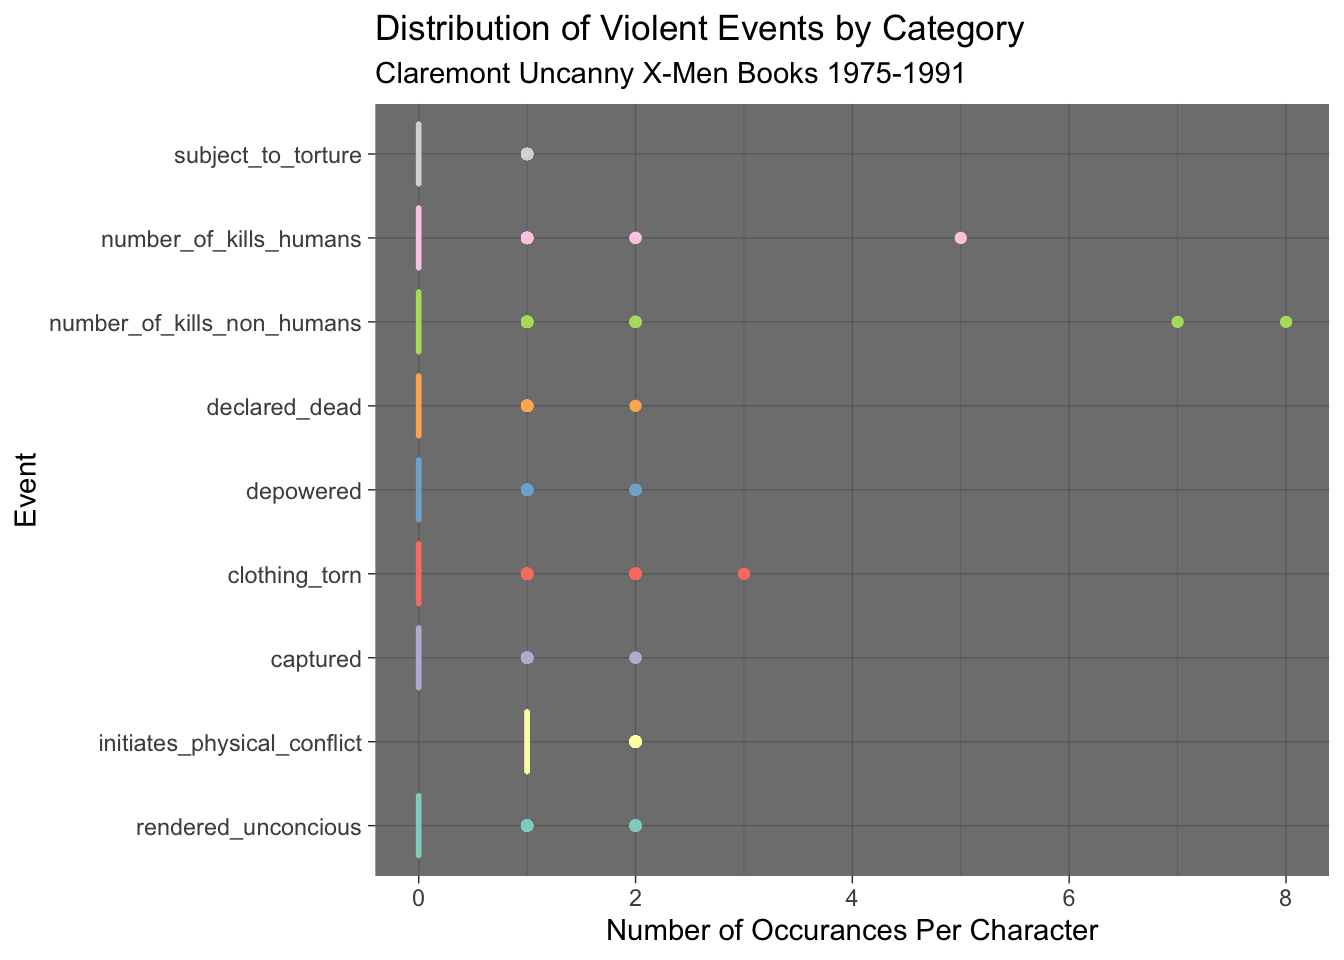
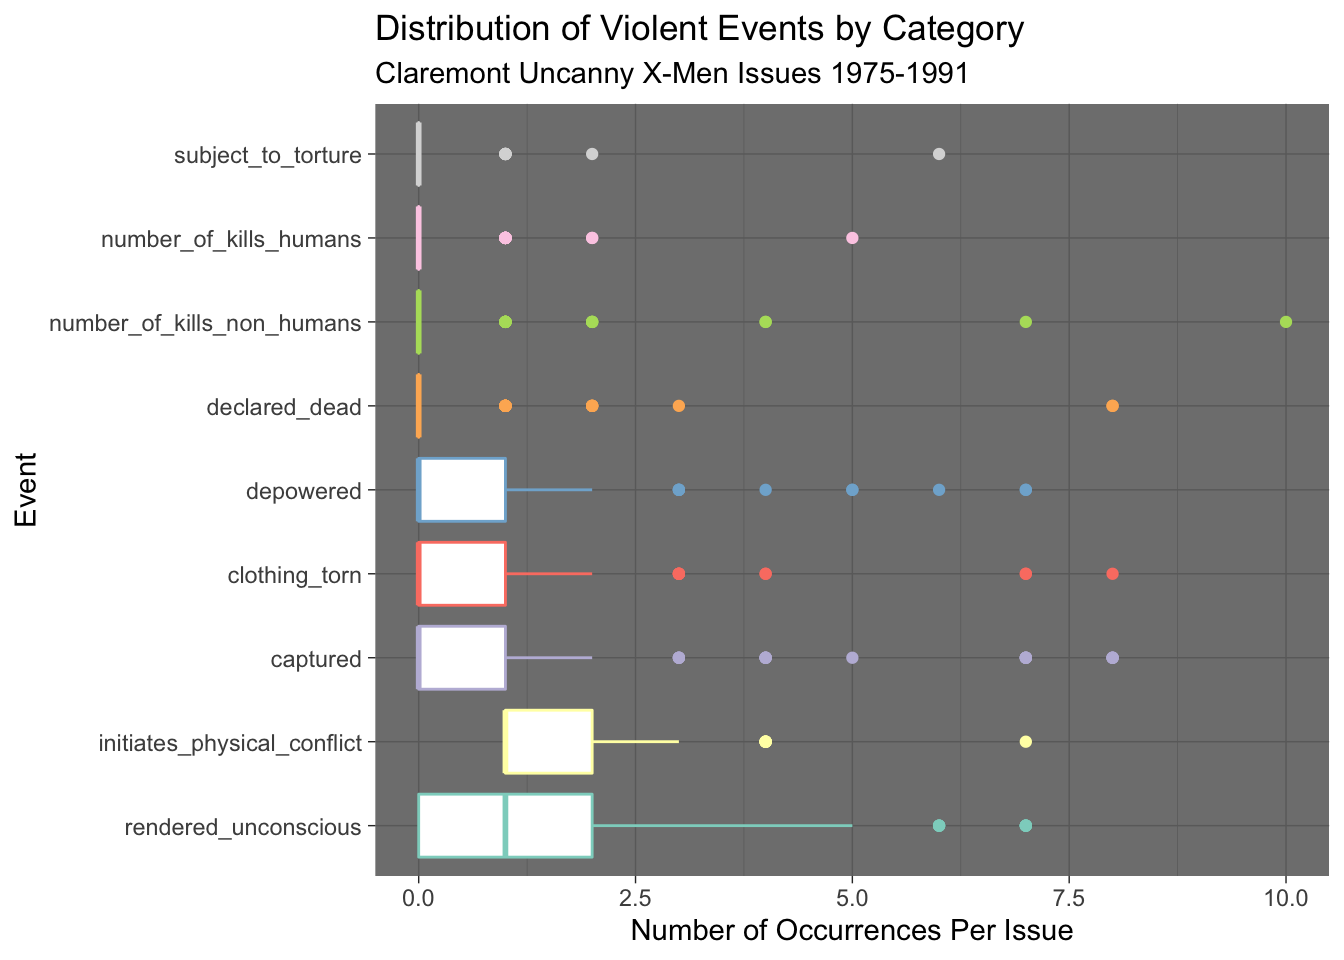
wrote the rest of x-men post

diff --git a/public/2020/06/29/claremont-run-of-x-men/index.html b/public/2020/06/29/claremont-run-of-x-men/index.html
@@ -22,11 +22,6 @@
 
 
 
-
-<link href='//cdnjs.cloudflare.com/ajax/libs/highlight.js/9.12.0/styles/github.min.css' rel='stylesheet' type='text/css' />
-
-
-
 <link rel="stylesheet" href="/css/fonts.css" media="all">
 <link rel="stylesheet" href="/css/main.css" media="all">
 
@@ -60,7 +55,7 @@
 
   <article class="article">
     
-    <span class="article-duration">2 min read</span>
+    <span class="article-duration">4 min read</span>
     
 
     <h1 class="article-title">Claremont Run of X-Men</h1>
@@ -73,81 +68,39 @@
       
 
 
-<pre class="r"><code># assign events to specific colors
-# from stack overflow: https://stackoverflow.com/questions/30789837/assign-specific-colors-to-specific-values
-
-characters_tidy$event = factor(characters_tidy$event, levels = c(&quot;rendered_unconcious&quot;, &quot;initiates_physical_conflict&quot;, &quot;captured&quot;, &quot;clothing_torn&quot;, &quot;depowered&quot;, &quot;declared_dead&quot;, &quot;number_of_kills_non_humans&quot;, &quot;number_of_kills_humans&quot;, &quot;subject_to_torture&quot;))
-
-col &lt;- setNames(c( &quot;#8dd3c7&quot;, &quot;#ffffb3&quot;, &quot;#bebada&quot;, &quot;#fb8072&quot;, &quot;#80b1d3&quot;, &quot;#fdb462&quot;, &quot;#b3de69&quot;, &quot;#fccde5&quot;, &quot;#d9d9d9&quot;), levels(characters_tidy$event))
-
-# create barplot of total number of occurences by event
-ggplot(characters_summarized, aes(x = event, y = sum, fill = event)) +
-  geom_col(show.legend = FALSE) +
-  coord_flip() +
-  theme(axis.text.x = element_text(angle = 90)) +
-  scale_fill_manual(values = col) +
-  theme_dark() +
-  labs(title = &quot;Total Violent Events by Category&quot;,
-       subtitle = &quot;Claremont Uncanny X-Men Books 1975-1991&quot;,
-       x = &quot;Event&quot;,
-       y = &quot;Total Number of Occurances&quot;)</code></pre>
+<p><img src="/post/2020-06-29-claremont-run-of-x-men_files/xmen.jpg" width="250" height="400" /> <a href="#fn1" class="footnote-ref" id="fnref1"><sup>1</sup></a></p>
+<p>Uncanny X-Men is a comic book series by Chris Claremont that was extremely popular between 1975 and 1991. Several versions of X-Men comic books have been published with the first series having been launched in 1963, and yet the version titled ‘Uncanny X-Men’ was the longest run of any mainstream superhero writer on one title <a href="#fn2" class="footnote-ref" id="fnref2"><sup>2</sup></a> <a href="#fn3" class="footnote-ref" id="fnref3"><sup>3</sup></a>. The plot is based on a team of mutant superheros who gained their superpowers by having been born with an “X-Gene” <a href="#fn4" class="footnote-ref" id="fnref4"><sup>4</sup></a>. This comic series is historically significant not only because it was so popular and long-lived, but also because it addressed several social justice issues including racism, Anti-Semitism, and LGBT rights, among others, through metaphors involving interactions between the “mutants” and the “normal humans” <a href="#fn5" class="footnote-ref" id="fnref5"><sup>5</sup></a>.</p>
+<p>This week’s #TidyTuesday data comes from The Claremont Run project, which explores the sixteen year run (1975-1991) of Uncanny X-Men by Claremont, specifically through the lense of how the series impacted the portrayal of gender and sexuality in comics, and more broadly in media as a whole <a href="#fn6" class="footnote-ref" id="fnref6"><sup>6</sup></a> <a href="#fn7" class="footnote-ref" id="fnref7"><sup>7</sup></a> <a href="#fn8" class="footnote-ref" id="fnref8"><sup>8</sup></a>. The data includes information about the actions of each character as well as whether or not each issue passed the brechdel test, a test that measures the representation of women in fiction. In order to pass the bechdel test, the work must feature at least two women who talk to each other about something other than a man. Sometimes the requirement also includes that the women be named <a href="#fn9" class="footnote-ref" id="fnref9"><sup>9</sup></a>. I have used this data to explore violence within the Uncanny X-Men books as well as the representation of women in several comic series including the Uncanny X-Men.</p>
+<p>You can find The Claremont Run project on twitter <a href="https://twitter.com/ClaremontRun">here</a>. Special thanks to <a href="https://twitter.com/malco_barrett">Malcom Barret</a> for putting these data sets into the R package claremontrun.</p>
+<div id="analysis-of-violence-in-uncanny-x-men" class="section level1">
+<h1>Analysis of Violence in Uncanny X-Men</h1>
+<p>When looking at the data on character behavior, I noticed several mentions of violence including “rendered unconscious”, “killed humans”, “killed non-humans”, and “initiated physical conflict”. In order to analyze just how prevalent this violent activity was, I created two plots below. The first adds up the total number of occurrences of each event over all issues, and the second compares the distributions of the number of times each event occurred per issue. For context, the data includes observations from 545 issues and 23 characters.</p>
+<p>From the barplot, it seems as if violent events are fairly prevalent– especially a character being rendered unconscious, which happened 257 times over 545 issues, with the number of occurrences of the initiation of physical conflict not being far behind. However, when we look at the distributions of how many times each event occurred per issue, the median for each event is low (1 or 0). Each event does have a wide range with several outliers on the higher end. The maximum number of occurrences in a single issue for any one event is 10 (killing of non-humans), which is farily high. It should be noted that I have removed an observation of 5,000,000,004 that was recorded for killing of non-humans because it seems impossible for that large of a number of occurrences to happen in a single issue, so I am assuming that was a typo.</p>
 <p><img src="/post/2020-06-29-claremont-run-of-x-men_files/figure-html/unnamed-chunk-3-1.png" width="672" /></p>
-<pre class="r"><code># create boxplot of distribution for each event
-ggplot(characters_tidy, aes(x = event, y = count, color = event))+
-  geom_boxplot(show.legend = FALSE) +
-  coord_flip() +
-  scale_color_manual(values = col) +
-  theme_dark() +
-  labs(title = &quot;Distribution of Violent Events by Category&quot;,
-       subtitle = &quot;Claremont Uncanny X-Men Books 1975-1991&quot;,
-       x = &quot;Event&quot;,
-       y = &quot;Number of Occurances Per Character&quot;)</code></pre>
 <p><img src="/post/2020-06-29-claremont-run-of-x-men_files/figure-html/unnamed-chunk-4-1.png" width="672" /></p>
-<pre class="r"><code># calculate proportion passed brecdel for xmen
-xmen_bechdel_prop &lt;- xmen_bechdel %&gt;% 
-  filter(!is.na(pass_bechdel)) %&gt;%
-  mutate(count = n()) %&gt;% 
-  group_by(pass_bechdel) %&gt;% 
-  summarize(count_group = n(), 
-         prop = count_group/count[1], 
-         percent = round(prop * 100)) %&gt;% 
-  mutate(series = &quot;Uncanny X-Men&quot;)
-
-# percent breaks code from: https://stackoverflow.com/questions/24776200/ggplot-replace-count-with-percentage-in-geom-bar/48602277
-
-brks &lt;- c(0, 0.25, 0.5, 0.75, 1)
-
-# calculate proportion passed brechdel for other series and join to xmen
-comic_bechdel &lt;- comic_bechdel %&gt;% 
-  filter(!is.na(pass_bechdel)) %&gt;% 
-  group_by(series) %&gt;% 
-  mutate(count = n()) %&gt;% 
-  group_by(series, pass_bechdel) %&gt;% 
-  summarize(count_group = n(), 
-         prop = count_group/count[1], 
-         percent = round(prop * 100))  %&gt;% 
-  full_join(xmen_bechdel_prop, 
-            by = c(&quot;series&quot;, &quot;pass_bechdel&quot;, &quot;count_group&quot;, &quot;prop&quot;, &quot;percent&quot;)) #%&gt;% 
-  #plyr::ddply(.(series), transform, pos = cumsum(prop) - (0.5 * percentage))
-
-# plot proportions
-ggplot(comic_bechdel, aes(x = series, 
-                          y = prop, 
-                          fill = pass_bechdel)) +
-  geom_bar(position = &quot;fill&quot;, stat = &quot;identity&quot;) +
-  geom_text(aes(label = paste0(percent,&quot;%&quot;)), 
-            size=4) +
-  scale_y_continuous(breaks = brks, labels = scales::percent(brks)) +
-  scale_fill_manual(values = c(&quot;palevioletred1&quot;, &quot;darkseagreen2&quot;)) +
-  coord_flip() +
-  labs(
-    title = &quot;Percentage of Issues Passing the Bechdel Test by Series&quot;,
-    y = &quot;Percentage&quot;,
-    x = &quot;Series&quot;,
-    fill = &quot;Passed?&quot;
-    ) +
-  theme_dark()</code></pre>
+</div>
+<div id="representation-of-females-in-comics" class="section level1">
+<h1>Representation of Females in Comics</h1>
+<p>The plot below represents the proportions of recorded issues that passed the bechdel test for several comic series. For the majority of comic series (6/8), less than 50% of the issues passed the test. Although this measure is obviously subjective and imperfect, these results indicate that many comic series’ are male focused and do not represent males and females proportionately. There was even one series, Daredevil, where every single issue (100%) failed the test.</p>
+<p>The one series that goes way in the opposite direction is Sensational She-Hulk. I am not familiar with the series, and just by the title it seems as if the series is geared toward female empowerment, so it makes sense that over 75% of its issues passed the bechdel test.</p>
+<p>The Uncanny X-Men is the only other comic series recorded having over 50% of its issues passing the bechdel test, and it barely meets this threshold (52%). I am not surprised that it scored this highly given that equality and acceptance are major themes throughout the series, and yet I would think that an even higher percentage of its issues would have passed. The title does elicit a masculine-dominated vibe given that its “X-Men” not “X-Women”, and yet the series addresses issues relating to gender fluidity and transgender rights among many other challenges faced by minority populations. For this reason, I am surprised that 48% of the issues do not even include two women having a conversation about something other than a man, which seems like a low threshold for proportionately representing women.</p>
 <p><img src="/post/2020-06-29-claremont-run-of-x-men_files/figure-html/unnamed-chunk-5-1.png" width="672" /></p>
+<p>The code used to generate this post is found <a href="https://github.com/rporta23/Website-Summer-2020/blob/master/content/post/2020-06-29-claremont-run-of-x-men.Rmd">here</a>.</p>
+</div>
+<div class="footnotes">
+<hr />
+<ol>
+<li id="fn1"><p><a href="https://store.dreamlandcomics.com/uncanny-x-men-157-newsstand-edition-near-mint-minus-92-marvel-comic-p114949.aspx" class="uri">https://store.dreamlandcomics.com/uncanny-x-men-157-newsstand-edition-near-mint-minus-92-marvel-comic-p114949.aspx</a><a href="#fnref1" class="footnote-back">↩</a></p></li>
+<li id="fn2"><p><a href="https://en.wikipedia.org/wiki/Uncanny_X-Men#1975%E2%80%931991:_Chris_Claremont_era" class="uri">https://en.wikipedia.org/wiki/Uncanny_X-Men#1975%E2%80%931991:_Chris_Claremont_era</a><a href="#fnref2" class="footnote-back">↩</a></p></li>
+<li id="fn3"><p><a href="http://www.claremontrun.com/Foreword.html" class="uri">http://www.claremontrun.com/Foreword.html</a><a href="#fnref3" class="footnote-back">↩</a></p></li>
+<li id="fn4"><p><a href="https://en.wikipedia.org/wiki/X-Men" class="uri">https://en.wikipedia.org/wiki/X-Men</a><a href="#fnref4" class="footnote-back">↩</a></p></li>
+<li id="fn5"><p><a href="https://en.wikipedia.org/wiki/X-Men#Reflecting_social_issues" class="uri">https://en.wikipedia.org/wiki/X-Men#Reflecting_social_issues</a><a href="#fnref5" class="footnote-back">↩</a></p></li>
+<li id="fn6"><p><a href="http://www.claremontrun.com/" class="uri">http://www.claremontrun.com/</a><a href="#fnref6" class="footnote-back">↩</a></p></li>
+<li id="fn7"><p><a href="http://www.claremontrun.com/Data.html" class="uri">http://www.claremontrun.com/Data.html</a><a href="#fnref7" class="footnote-back">↩</a></p></li>
+<li id="fn8"><p><a href="https://github.com/rfordatascience/tidytuesday/blob/master/data/2020/2020-06-30/readme.md" class="uri">https://github.com/rfordatascience/tidytuesday/blob/master/data/2020/2020-06-30/readme.md</a><a href="#fnref8" class="footnote-back">↩</a></p></li>
+<li id="fn9"><p><a href="https://en.wikipedia.org/wiki/Bechdel_test" class="uri">https://en.wikipedia.org/wiki/Bechdel_test</a><a href="#fnref9" class="footnote-back">↩</a></p></li>
+</ol>
+</div>
 
     </div>
   </article>
@@ -171,22 +124,7 @@ ggplot(comic_bechdel, aes(x = series,
     </div>
     
 
-
-
-<script src="//cdnjs.cloudflare.com/ajax/libs/highlight.js/9.12.0/highlight.min.js"></script>
-
-
-
-<script src="//cdnjs.cloudflare.com/ajax/libs/highlight.js/9.12.0/languages/r.min.js"></script>
-<script src="//cdnjs.cloudflare.com/ajax/libs/highlight.js/9.12.0/languages/yaml.min.js"></script>
-<script>hljs.configure({languages: []}); hljs.initHighlightingOnLoad();</script>
-
-
-
     
-<script src="/js/math-code.js"></script>
-<script async src="//cdnjs.cloudflare.com/ajax/libs/mathjax/2.7.5/MathJax.js?config=TeX-MML-AM_CHTML"></script>
-
 
     
   </body>

diff --git a/content/post/2020-06-29-claremont-run-of-x-men.html b/content/post/2020-06-29-claremont-run-of-x-men.html
@@ -5,82 +5,41 @@ date: '2020-06-29'
 slug: claremont-run-of-x-men
 categories: []
 tags: []
+draft: true
 ---
 
 
 
-<pre class="r"><code># assign events to specific colors
-# from stack overflow: https://stackoverflow.com/questions/30789837/assign-specific-colors-to-specific-values
-
-characters_tidy$event = factor(characters_tidy$event, levels = c(&quot;rendered_unconcious&quot;, &quot;initiates_physical_conflict&quot;, &quot;captured&quot;, &quot;clothing_torn&quot;, &quot;depowered&quot;, &quot;declared_dead&quot;, &quot;number_of_kills_non_humans&quot;, &quot;number_of_kills_humans&quot;, &quot;subject_to_torture&quot;))
-
-col &lt;- setNames(c( &quot;#8dd3c7&quot;, &quot;#ffffb3&quot;, &quot;#bebada&quot;, &quot;#fb8072&quot;, &quot;#80b1d3&quot;, &quot;#fdb462&quot;, &quot;#b3de69&quot;, &quot;#fccde5&quot;, &quot;#d9d9d9&quot;), levels(characters_tidy$event))
-
-# create barplot of total number of occurences by event
-ggplot(characters_summarized, aes(x = event, y = sum, fill = event)) +
-  geom_col(show.legend = FALSE) +
-  coord_flip() +
-  theme(axis.text.x = element_text(angle = 90)) +
-  scale_fill_manual(values = col) +
-  theme_dark() +
-  labs(title = &quot;Total Violent Events by Category&quot;,
-       subtitle = &quot;Claremont Uncanny X-Men Books 1975-1991&quot;,
-       x = &quot;Event&quot;,
-       y = &quot;Total Number of Occurances&quot;)</code></pre>
+<p><img src="/post/2020-06-29-claremont-run-of-x-men_files/xmen.jpg" width="250" height="400" /> <a href="#fn1" class="footnote-ref" id="fnref1"><sup>1</sup></a></p>
+<p>Uncanny X-Men is a comic book series by Chris Claremont that was extremely popular between 1975 and 1991. Several versions of X-Men comic books have been published with the first series having been launched in 1963, and yet the version titled ‘Uncanny X-Men’ was the longest run of any mainstream superhero writer on one title <a href="#fn2" class="footnote-ref" id="fnref2"><sup>2</sup></a> <a href="#fn3" class="footnote-ref" id="fnref3"><sup>3</sup></a>. The plot is based on a team of mutant superheros who gained their superpowers by having been born with an “X-Gene” <a href="#fn4" class="footnote-ref" id="fnref4"><sup>4</sup></a>. This comic series is historically significant not only because it was so popular and long-lived, but also because it addressed several social justice issues including racism, Anti-Semitism, and LGBT rights, among others, through metaphors involving interactions between the “mutants” and the “normal humans” <a href="#fn5" class="footnote-ref" id="fnref5"><sup>5</sup></a>.</p>
+<p>This week’s #TidyTuesday data comes from The Claremont Run project, which explores the sixteen year run (1975-1991) of Uncanny X-Men by Claremont, specifically through the lense of how the series impacted the portrayal of gender and sexuality in comics, and more broadly in media as a whole <a href="#fn6" class="footnote-ref" id="fnref6"><sup>6</sup></a> <a href="#fn7" class="footnote-ref" id="fnref7"><sup>7</sup></a> <a href="#fn8" class="footnote-ref" id="fnref8"><sup>8</sup></a>. The data includes information about the actions of each character as well as whether or not each issue passed the brechdel test, a test that measures the representation of women in fiction. In order to pass the bechdel test, the work must feature at least two women who talk to each other about something other than a man. Sometimes the requirement also includes that the women be named <a href="#fn9" class="footnote-ref" id="fnref9"><sup>9</sup></a>. I have used this data to explore violence within the Uncanny X-Men books as well as the representation of women in several comic series including the Uncanny X-Men.</p>
+<p>You can find The Claremont Run project on twitter <a href="https://twitter.com/ClaremontRun">here</a>. Special thanks to <a href="https://twitter.com/malco_barrett">Malcom Barret</a> for putting these data sets into the R package claremontrun.</p>
+<div id="analysis-of-violence-in-uncanny-x-men" class="section level1">
+<h1>Analysis of Violence in Uncanny X-Men</h1>
+<p>When looking at the data on character behavior, I noticed several mentions of violence including “rendered unconscious”, “killed humans”, “killed non-humans”, and “initiated physical conflict”. In order to analyze just how prevalent this violent activity was, I created two plots below. The first adds up the total number of occurrences of each event over all issues, and the second compares the distributions of the number of times each event occurred per issue. For context, the data includes observations from 545 issues and 23 characters.</p>
+<p>From the barplot, it seems as if violent events are fairly prevalent– especially a character being rendered unconscious, which happened 257 times over 545 issues, with the number of occurrences of the initiation of physical conflict not being far behind. However, when we look at the distributions of how many times each event occurred per issue, the median for each event is low (1 or 0). Each event does have a wide range with several outliers on the higher end. The maximum number of occurrences in a single issue for any one event is 10 (killing of non-humans), which is farily high. It should be noted that I have removed an observation of 5,000,000,004 that was recorded for killing of non-humans because it seems impossible for that large of a number of occurrences to happen in a single issue, so I am assuming that was a typo.</p>
 <p><img src="/post/2020-06-29-claremont-run-of-x-men_files/figure-html/unnamed-chunk-3-1.png" width="672" /></p>
-<pre class="r"><code># create boxplot of distribution for each event
-ggplot(characters_tidy, aes(x = event, y = count, color = event))+
-  geom_boxplot(show.legend = FALSE) +
-  coord_flip() +
-  scale_color_manual(values = col) +
-  theme_dark() +
-  labs(title = &quot;Distribution of Violent Events by Category&quot;,
-       subtitle = &quot;Claremont Uncanny X-Men Books 1975-1991&quot;,
-       x = &quot;Event&quot;,
-       y = &quot;Number of Occurances Per Character&quot;)</code></pre>
 <p><img src="/post/2020-06-29-claremont-run-of-x-men_files/figure-html/unnamed-chunk-4-1.png" width="672" /></p>
-<pre class="r"><code># calculate proportion passed brecdel for xmen
-xmen_bechdel_prop &lt;- xmen_bechdel %&gt;% 
-  filter(!is.na(pass_bechdel)) %&gt;%
-  mutate(count = n()) %&gt;% 
-  group_by(pass_bechdel) %&gt;% 
-  summarize(count_group = n(), 
-         prop = count_group/count[1], 
-         percent = round(prop * 100)) %&gt;% 
-  mutate(series = &quot;Uncanny X-Men&quot;)
-
-# percent breaks code from: https://stackoverflow.com/questions/24776200/ggplot-replace-count-with-percentage-in-geom-bar/48602277
-
-brks &lt;- c(0, 0.25, 0.5, 0.75, 1)
-
-# calculate proportion passed brechdel for other series and join to xmen
-comic_bechdel &lt;- comic_bechdel %&gt;% 
-  filter(!is.na(pass_bechdel)) %&gt;% 
-  group_by(series) %&gt;% 
-  mutate(count = n()) %&gt;% 
-  group_by(series, pass_bechdel) %&gt;% 
-  summarize(count_group = n(), 
-         prop = count_group/count[1], 
-         percent = round(prop * 100))  %&gt;% 
-  full_join(xmen_bechdel_prop, 
-            by = c(&quot;series&quot;, &quot;pass_bechdel&quot;, &quot;count_group&quot;, &quot;prop&quot;, &quot;percent&quot;)) #%&gt;% 
-  #plyr::ddply(.(series), transform, pos = cumsum(prop) - (0.5 * percentage))
-
-# plot proportions
-ggplot(comic_bechdel, aes(x = series, 
-                          y = prop, 
-                          fill = pass_bechdel)) +
-  geom_bar(position = &quot;fill&quot;, stat = &quot;identity&quot;) +
-  geom_text(aes(label = paste0(percent,&quot;%&quot;)), 
-            size=4) +
-  scale_y_continuous(breaks = brks, labels = scales::percent(brks)) +
-  scale_fill_manual(values = c(&quot;palevioletred1&quot;, &quot;darkseagreen2&quot;)) +
-  coord_flip() +
-  labs(
-    title = &quot;Percentage of Issues Passing the Bechdel Test by Series&quot;,
-    y = &quot;Percentage&quot;,
-    x = &quot;Series&quot;,
-    fill = &quot;Passed?&quot;
-    ) +
-  theme_dark()</code></pre>
+</div>
+<div id="representation-of-females-in-comics" class="section level1">
+<h1>Representation of Females in Comics</h1>
+<p>The plot below represents the proportions of recorded issues that passed the bechdel test for several comic series. For the majority of comic series (6/8), less than 50% of the issues passed the test. Although this measure is obviously subjective and imperfect, these results indicate that many comic series’ are male focused and do not represent males and females proportionately. There was even one series, Daredevil, where every single issue (100%) failed the test.</p>
+<p>The one series that goes way in the opposite direction is Sensational She-Hulk. I am not familiar with the series, and just by the title it seems as if the series is geared toward female empowerment, so it makes sense that over 75% of its issues passed the bechdel test.</p>
+<p>The Uncanny X-Men is the only other comic series recorded having over 50% of its issues passing the bechdel test, and it barely meets this threshold (52%). I am not surprised that it scored this highly given that equality and acceptance are major themes throughout the series, and yet I would think that an even higher percentage of its issues would have passed. The title does elicit a masculine-dominated vibe given that its “X-Men” not “X-Women”, and yet the series addresses issues relating to gender fluidity and transgender rights among many other challenges faced by minority populations. For this reason, I am surprised that 48% of the issues do not even include two women having a conversation about something other than a man, which seems like a low threshold for proportionately representing women.</p>
 <p><img src="/post/2020-06-29-claremont-run-of-x-men_files/figure-html/unnamed-chunk-5-1.png" width="672" /></p>
+<p>The code used to generate this post is found <a href="https://github.com/rporta23/Website-Summer-2020/blob/master/content/post/2020-06-29-claremont-run-of-x-men.Rmd">here</a>.</p>
+</div>
+<div class="footnotes">
+<hr />
+<ol>
+<li id="fn1"><p><a href="https://store.dreamlandcomics.com/uncanny-x-men-157-newsstand-edition-near-mint-minus-92-marvel-comic-p114949.aspx" class="uri">https://store.dreamlandcomics.com/uncanny-x-men-157-newsstand-edition-near-mint-minus-92-marvel-comic-p114949.aspx</a><a href="#fnref1" class="footnote-back">↩</a></p></li>
+<li id="fn2"><p><a href="https://en.wikipedia.org/wiki/Uncanny_X-Men#1975%E2%80%931991:_Chris_Claremont_era" class="uri">https://en.wikipedia.org/wiki/Uncanny_X-Men#1975%E2%80%931991:_Chris_Claremont_era</a><a href="#fnref2" class="footnote-back">↩</a></p></li>
+<li id="fn3"><p><a href="http://www.claremontrun.com/Foreword.html" class="uri">http://www.claremontrun.com/Foreword.html</a><a href="#fnref3" class="footnote-back">↩</a></p></li>
+<li id="fn4"><p><a href="https://en.wikipedia.org/wiki/X-Men" class="uri">https://en.wikipedia.org/wiki/X-Men</a><a href="#fnref4" class="footnote-back">↩</a></p></li>
+<li id="fn5"><p><a href="https://en.wikipedia.org/wiki/X-Men#Reflecting_social_issues" class="uri">https://en.wikipedia.org/wiki/X-Men#Reflecting_social_issues</a><a href="#fnref5" class="footnote-back">↩</a></p></li>
+<li id="fn6"><p><a href="http://www.claremontrun.com/" class="uri">http://www.claremontrun.com/</a><a href="#fnref6" class="footnote-back">↩</a></p></li>
+<li id="fn7"><p><a href="http://www.claremontrun.com/Data.html" class="uri">http://www.claremontrun.com/Data.html</a><a href="#fnref7" class="footnote-back">↩</a></p></li>
+<li id="fn8"><p><a href="https://github.com/rfordatascience/tidytuesday/blob/master/data/2020/2020-06-30/readme.md" class="uri">https://github.com/rfordatascience/tidytuesday/blob/master/data/2020/2020-06-30/readme.md</a><a href="#fnref8" class="footnote-back">↩</a></p></li>
+<li id="fn9"><p><a href="https://en.wikipedia.org/wiki/Bechdel_test" class="uri">https://en.wikipedia.org/wiki/Bechdel_test</a><a href="#fnref9" class="footnote-back">↩</a></p></li>
+</ol>
+</div>
